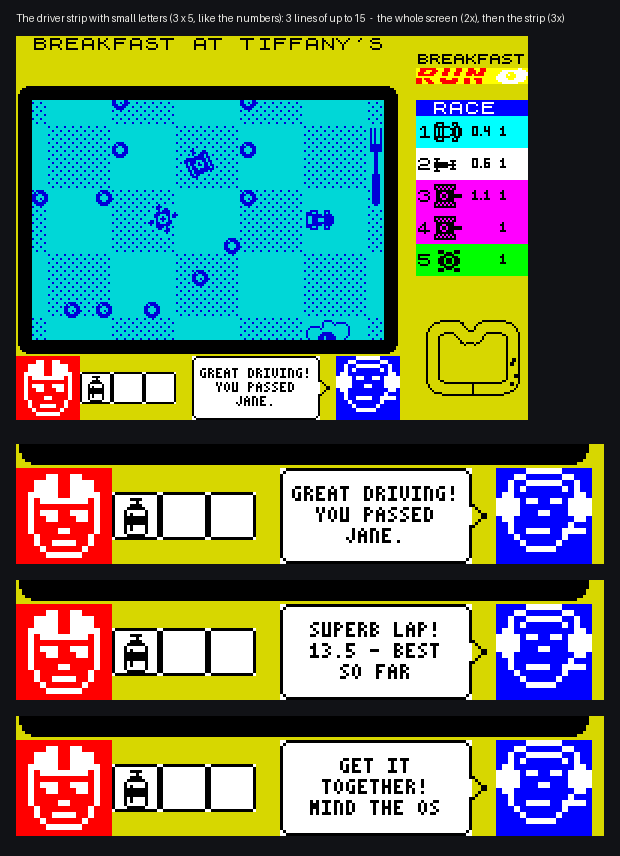
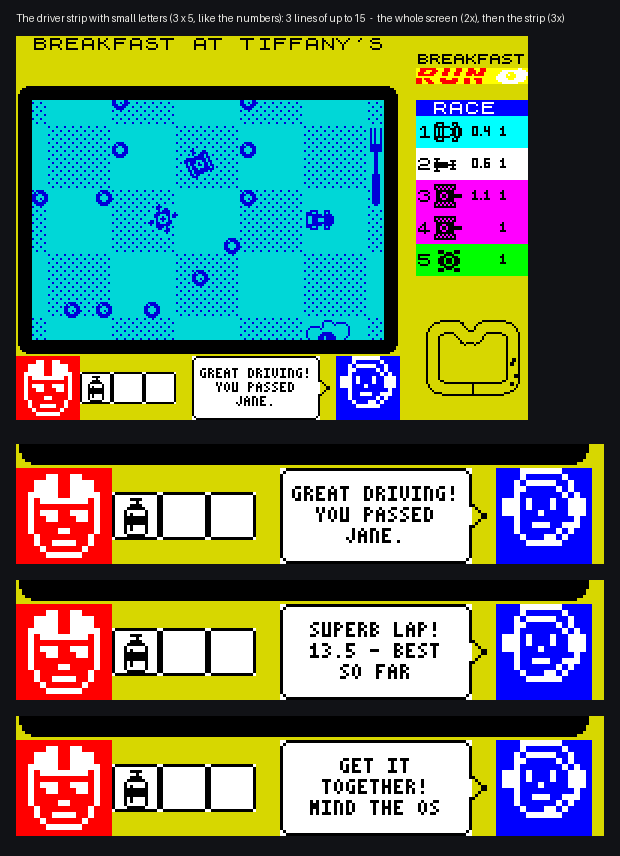
Grant's crew chief (first version) in face_art.txt; mock-ups draw him from there
Claude-Session: https://claude.ai/code/session_01476U897R8mVFSH3iYyydqW

diff --git a/tools/make_strip_mockups.py b/tools/make_strip_mockups.py
@@ -45,22 +45,7 @@ NOS = ["....XXXX....",      # valve handle
        "..X.X....X..",
        "..X......X..",
        "...XXXXXX..."]
-CREW = [".....######.....",    # the crew chief: a headset - the band over his
-        "...##......##...",    # head, big ear cups, the microphone at his mouth
-        "..#..######..#..",
-        "..#.#......#.#..",
-        ".##..........##.",
-        "####.##..##.####",
-        "####........####",
-        "####...##...####",
-        ".##..........##.",
-        "..#.........#...",
-        "..#..####..####.",
-        "...#.......#....",
-        "....#.....#.....",
-        ".....#####......",
-        "................",
-        "................"]
+CREW = re.search(r'== CREW face ==\n((?:[X.]{16}\n){16})', fa).group(1).split()   # (Grant's, in the editor)
 def text(bits, s, col, row):
     for i, ch in enumerate(s):
         g = font[(ord(ch) - 32) * 8:(ord(ch) - 32) * 8 + 8]

diff --git a/PROJECT-LOG.md b/PROJECT-LOG.md
@@ -647,3 +647,7 @@ Authoritative log for this workstream (house rule 5.2). Newest at the bottom. Ti
   blue, twice size as in the strip; link #crew); his drawing is in tools/face_art.txt.
 - Grant: smaller text, like the numbers, to make space. 3 x 5 letters (A-Z, digits, ! . - ')
   in the same box: 3 lines of up to 15 letters (was 2 of 8). docs/design/driver_strip_small.png.
+- Grant's own crew chief (from his editor screenshot) saved in tools/face_art.txt; the strip
+  mock-ups draw him from there. His later 'updated' version came as an image only (not saved
+  as a file): waiting for it as pasted text. The live editor is left as it is, so his draft in
+  that browser is not set aside.
